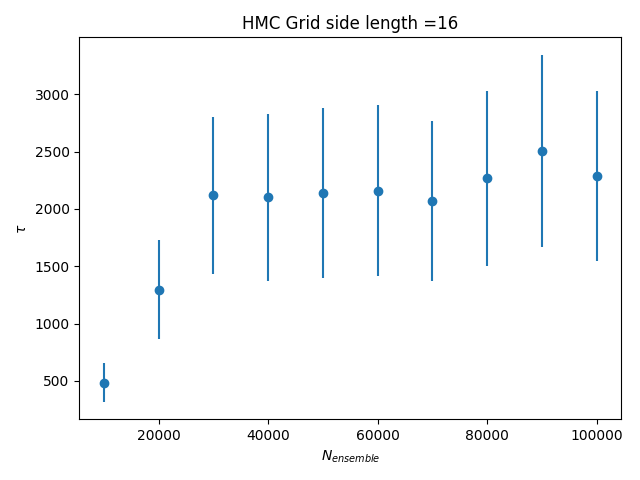
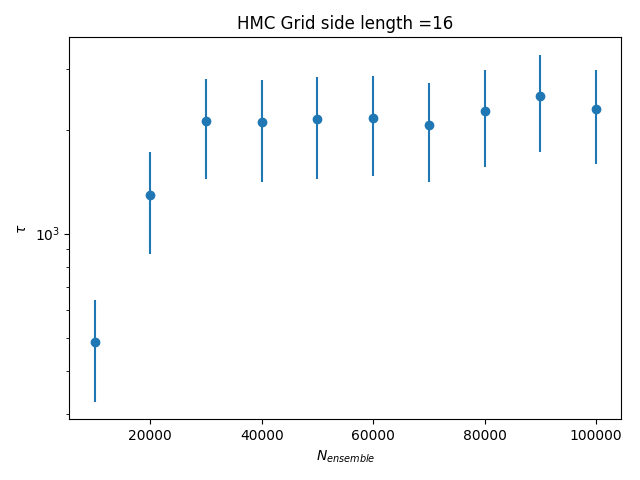
Fixed nan stat error for integrated auto correlation time

diff --git a/src/Analyzer/Analyzer.cpp b/src/Analyzer/Analyzer.cpp
@@ -75,7 +75,6 @@ std::vector<double> Analyzer::auto_correlation(size_t max_t) {
     double tau_W = 0;
     for (int i = 1; i < ret.size(); ++i) {
         if (g_W < 0) {
-            std::cout << "i:\t" << i << "\tW:\t" << W << std::endl;
             break;
         } else {
             W++;
@@ -88,9 +87,11 @@ std::vector<double> Analyzer::auto_correlation(size_t max_t) {
     vec_temp = VectorX::Map(&ret[0], ret.size());
     WriteVectorX(vec_temp, group, auto_correlation_name);
     double int_auto_correlation_time_bias{(2 * W + 1) * int_auto_correlation_time / static_cast<double>(data.size())};
-    int_auto_correlation_time /= (1 - (2 * W + 1) / static_cast<double>(data.size()));
     double int_auto_correlation_time_stat_error{2. * sqrt(W + 0.5 - int_auto_correlation_time) *
                                                 int_auto_correlation_time / sqrt(static_cast<double>(data.size()))};
+
+    int_auto_correlation_time /= (1 - (2 * W + 1) / static_cast<double>(data.size()));
+    std::cout << "i:\t" << int_auto_correlation_time << "\tW:\t" << W << std::endl;
     // this is really the variance!!!
     write_static_size(int_auto_correlation_time, group, int_auto_correlation_time_name);
     write_static_size(int_auto_correlation_time_bias, group, int_auto_correlation_time_bias_name);

diff --git a/plot/plot.py b/plot/plot.py
@@ -226,6 +226,7 @@ def info_plot(sub_folder_name, observable_name=magnetization_name):
             ax_.set_title(title)
             ax_.set_xlabel("$N_{ensemble}$")
             ax_.set_ylabel(r"$\tau$")
+            ax_.set_yscale("log")
             fig_.set_tight_layout(True)
             fig_.savefig(file.split('.')[0] + observable_name + "test")
             plt.close(fig_)
